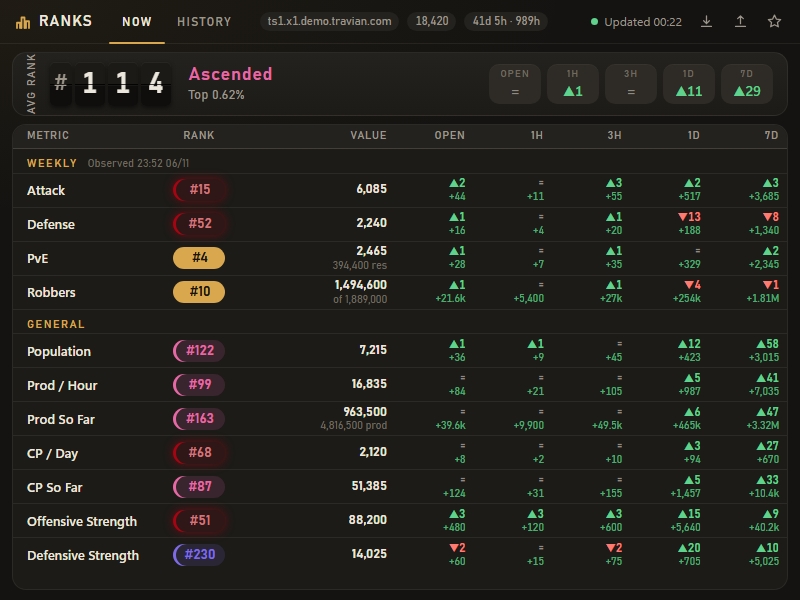
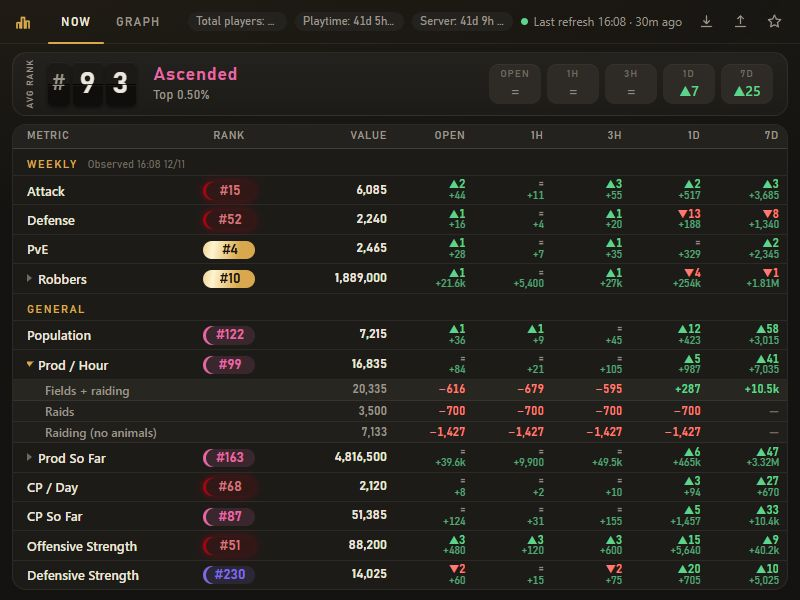
Add hourly raiding without animals to production breakdown

diff --git a/projects/travian-extensions/extensions/TravianRankTracker/popup/now-view.js b/projects/travian-extensions/extensions/TravianRankTracker/popup/now-view.js
@@ -120,11 +120,11 @@ const NOW_RAID_WINDOW_HOURS = 3;
  * @param {Object} data - Latest snapshot.
  * @returns {(snapshot: Object) => number|null}
  */
-function raidRateReader(history, data) {
+function raidRateReader(history, data, valueKey = "valBountyTotal") {
 	const points = prepareHistory([...history.filter((p) => p.timestamp !== data.timestamp), data]);
 	const samples = points
-		.filter((point) => Number.isFinite(point.valBountyTotal))
-		.map((point) => ({ timestamp: point.timestamp, value: point.valBountyTotal }));
+		.filter((point) => Number.isFinite(point[valueKey]))
+		.map((point) => ({ timestamp: point.timestamp, value: point[valueKey] }));
 	return (snapshot) => {
 		if (!Number.isFinite(snapshot?.timestamp)) return null;
 		const gain = rollingWindowGain(samples, [snapshot.timestamp], NOW_RAID_WINDOW_HOURS * 3_600_000)[0];
@@ -140,11 +140,12 @@ function incomeOf(snapshot, raidRate) {
 	return prod + (Number.isFinite(raid) ? raid : 0);
 }
 
-/** Collapsible rows under Prod / Hour: production plus raids, and raids alone. */
-function incomeParts(raidRate) {
+/** Collapsible hourly income rows, including raiding without animal rewards. */
+function incomeParts(raidRate, raidingRate) {
 	return [
 		{ name: "Fields + raiding", read: (s) => incomeOf(s, raidRate) },
 		{ name: "Raids", read: (s) => { const raid = raidRate(s); return Number.isFinite(raid) ? raid : null; } },
+		{ name: "Raiding (no animals)", read: raidingRate },
 	];
 }
 
@@ -549,6 +550,7 @@ function renderGeneral(data, deltaCells, history) {
 	if (!body) return;
 	const rows = [groupRow("General")];
 	const raidRate = raidRateReader(history, data);
+	const raidingRate = raidRateReader(history, data, "valRobExcludingPveTotal");
 	const add = (name, keyRank, keyVal, readVal = (s) => s?.[keyVal], parts = undefined) => {
 		const rank = data[keyRank];
 		const points = readVal(data);
@@ -563,7 +565,7 @@ function renderGeneral(data, deltaCells, history) {
 	};
 
 	add("Population", "rankPop", "valPop");
-	add("Prod / Hour", "rankProd", "valProd", grossProdOf, incomeParts(raidRate));
+	add("Prod / Hour", "rankProd", "valProd", grossProdOf, incomeParts(raidRate, raidingRate));
 	add("Prod So Far", "rankProdSoFar", "valProdSoFar");
 	add("CP / Day", "rankCp", "cpProd");
 	add("CP So Far", "rankCpSoFar", "valCpSoFar");

diff --git a/projects/travian-extensions/docs/USAGE.md b/projects/travian-extensions/docs/USAGE.md
@@ -102,7 +102,7 @@ The farm-list screenshot uses a sample table with the extension's selection high
 **Usage:**
 
 1. Open a logged-in Travian tab and click the extension icon to register the server and collect statistics.
-2. Use **Now** for rankings and changes. The status in the top bar shows the last update. Background collection runs approximately every 30 minutes while the browser and session are available. Weekly tables refresh when the popup is opened; the Weekly header shows when they were observed. Cached weekly values are not recorded as new history.
+2. Use **Now** for rankings and changes. Expand **Prod / Hour** for Fields + raiding, Raids, and **Raiding (no animals)**. The raid rates average the trailing 3 hours; the no-animals row excludes 160 resources per animal killed. The status in the top bar shows the last update. Background collection runs approximately every 30 minutes while the browser and session are available. Weekly tables refresh when the popup is opened; the Weekly header shows when they were observed. Cached weekly values are not recorded as new history.
 3. Use **History** to pick metrics in the sidebar, drag across the chart to compare two points, and scroll on the chart to zoom (Shift + scroll pans), or pick a quick range (3h–1w; click it again to show all). Under **Raids**, select **Avg/h with animals** and **Avg/h without animals** for trailing 3-hour gains divided by 3 (animals × 160 resources). These stay hourly averages in both modes and require 3 hours of saved history. **Daily peaks** aggregates observations; **Per hour** shows change per hour; raid and PvE counters show the total gained in the trailing 3 hours. **Save group** stores the visible metrics; **Clear** hides all. Weekly statistics reset; value changes and hourly rates bridge observed resets rather than reporting the old total as a loss. Gains during missing observations cannot be recovered.
 4. Use the export icon (arrow down) to save data. The import icon (arrow up) restores a backup and asks before deleting data the backup does not contain; export existing data before importing. The star icon lists the rank tiers.
 

diff --git a/projects/travian-extensions/extensions/TravianRankTracker/README.md b/projects/travian-extensions/extensions/TravianRankTracker/README.md
@@ -2,7 +2,7 @@
 
 Records player statistics and displays rankings, historical changes and comparison graphs.
 
-**Version 5.0.35 · JavaScript · Manifest V3**
+**Version 5.0.36 · JavaScript · Manifest V3**
 
 [Usage guide](../../docs/USAGE.md#rank-tracker) · [Installation](../../README.md#install-in-brave-chrome-or-edge) · [All extensions](../../README.md)
 
@@ -18,7 +18,7 @@ Graph controls wrap within the popup so the full chart and right-hand axis stay 
 - Changes and rates account for observed weekly resets; daily bounty resets are handled in History. Absolute charts retain the original period totals.
 - Average rank uses the seven General ranks (Population, Prod / Hour, Prod So Far, CP / Day, CP So Far, Offensive and Defensive Strength) plus weekly PvE and Robbers. Weekly Attack and Defense are excluded.
 - Drag across the graph to compare two points and see the time-weighted average plotted value over that range. Averages keep the plotted units, including /3h for raid and PvE counters in Per hour mode.
-- Now → Prod / Hour includes **Fields + raiding**, combining field production and trailing 3-hour raid income per hour.
+- Now → Prod / Hour includes **Fields + raiding**, combining field production and trailing 3-hour raid income per hour. Expand it for **Raids** and **Raiding (no animals)**; the latter subtracts animal rewards (160 resources per kill) from weekly raided resources before calculating the trailing 3-hour hourly rate.
 - In Per hour mode, raid and PvE counters show the total gained in the trailing 3 hours.
 - Cached weekly readings are omitted from new history. Activity during missing observations or unobserved resets cannot be reconstructed.
 - Backup imports are validated before writing. Failed writes preserve existing data. Restore is available without a registered server.

diff --git a/projects/travian-extensions/extensions/TravianRankTracker/CHANGELOG.md b/projects/travian-extensions/extensions/TravianRankTracker/CHANGELOG.md
@@ -1,5 +1,9 @@
 # Rank Tracker changelog
 
+## Rank Tracker 5.0.36 — 2026-11-12
+
+- Now: added "Raiding (no animals)" under the collapsible Prod / Hour row, with a trailing 3-hour hourly rate and change columns. Animal rewards are excluded at 160 resources per kill.
+
 ## Rank Tracker 5.0.35 — 2026-11-12
 
 - Raid income shared with TravAlarm (FNPC time) now uses the trailing 3-hour rate, matching the popup's "Raids" row, instead of the whole-history average.
